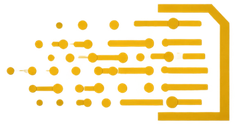
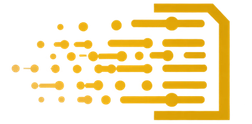
brand: adopt the owner's revised lockup render (v2)
Second render supplied in-session, regenerated via the README recipe:
finer mark texture, lighter wordmark weight, "RECÓRDS" accent fixed
("FÓR" still carries one — noted in HANDOFF). Same asset set as the
first adoption: lockup-dark, mark pair, icon.png, apple-icon.png,
opengraph-image.png. Browser-verified in the nav: light, dark, 390px.

Claude-Session: https://claude.ai/code/session_01DonAa3sJ5xcCXDTn8ejryw

diff --git a/HANDOFF.md b/HANDOFF.md
@@ -63,9 +63,10 @@ happened and what to know:
 - Still OLD art, on purpose: `brandeis-lockup-light.png` (unreferenced —
   nav is pinned dark; README says regenerate before any light-ground use)
   and `favicon.ico` (ico needs a tool sharp lacks).
-- ⚠ FLAGGED TO OWNER: the render's tagline reads "AI FÓR PUBLIC RECÓRDS"
-  — stray accents baked into the artwork. Swap in a corrected render via
-  the README recipe when one exists.
+- ⚠ FLAGGED TO OWNER: the render's tagline carried stray accents. The
+  owner supplied a SECOND revision the same session (adopted, same
+  recipe): finer mark texture, lighter wordmark weight, "RECÓRDS" fixed —
+  "FÓR" still accented; swap in a corrected render when one exists.
 Browser-verified: marketing nav light+dark, 390px mark collapse, signup.
 848 tests, typecheck clean (no code paths changed beyond a comment).
 
